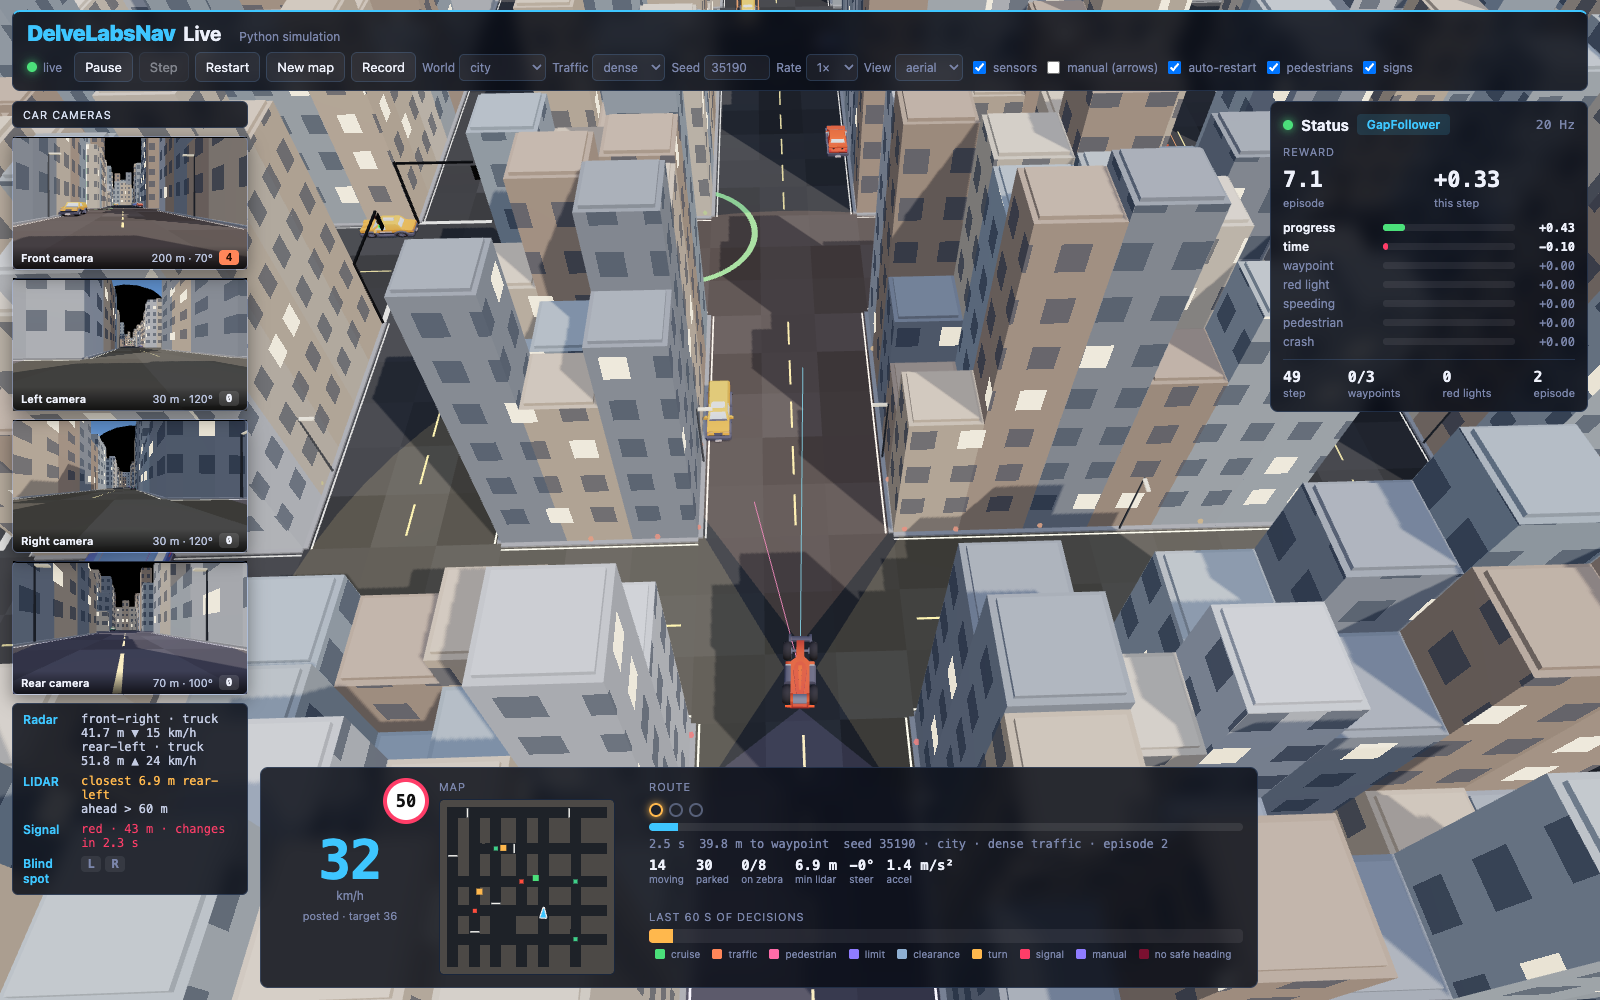
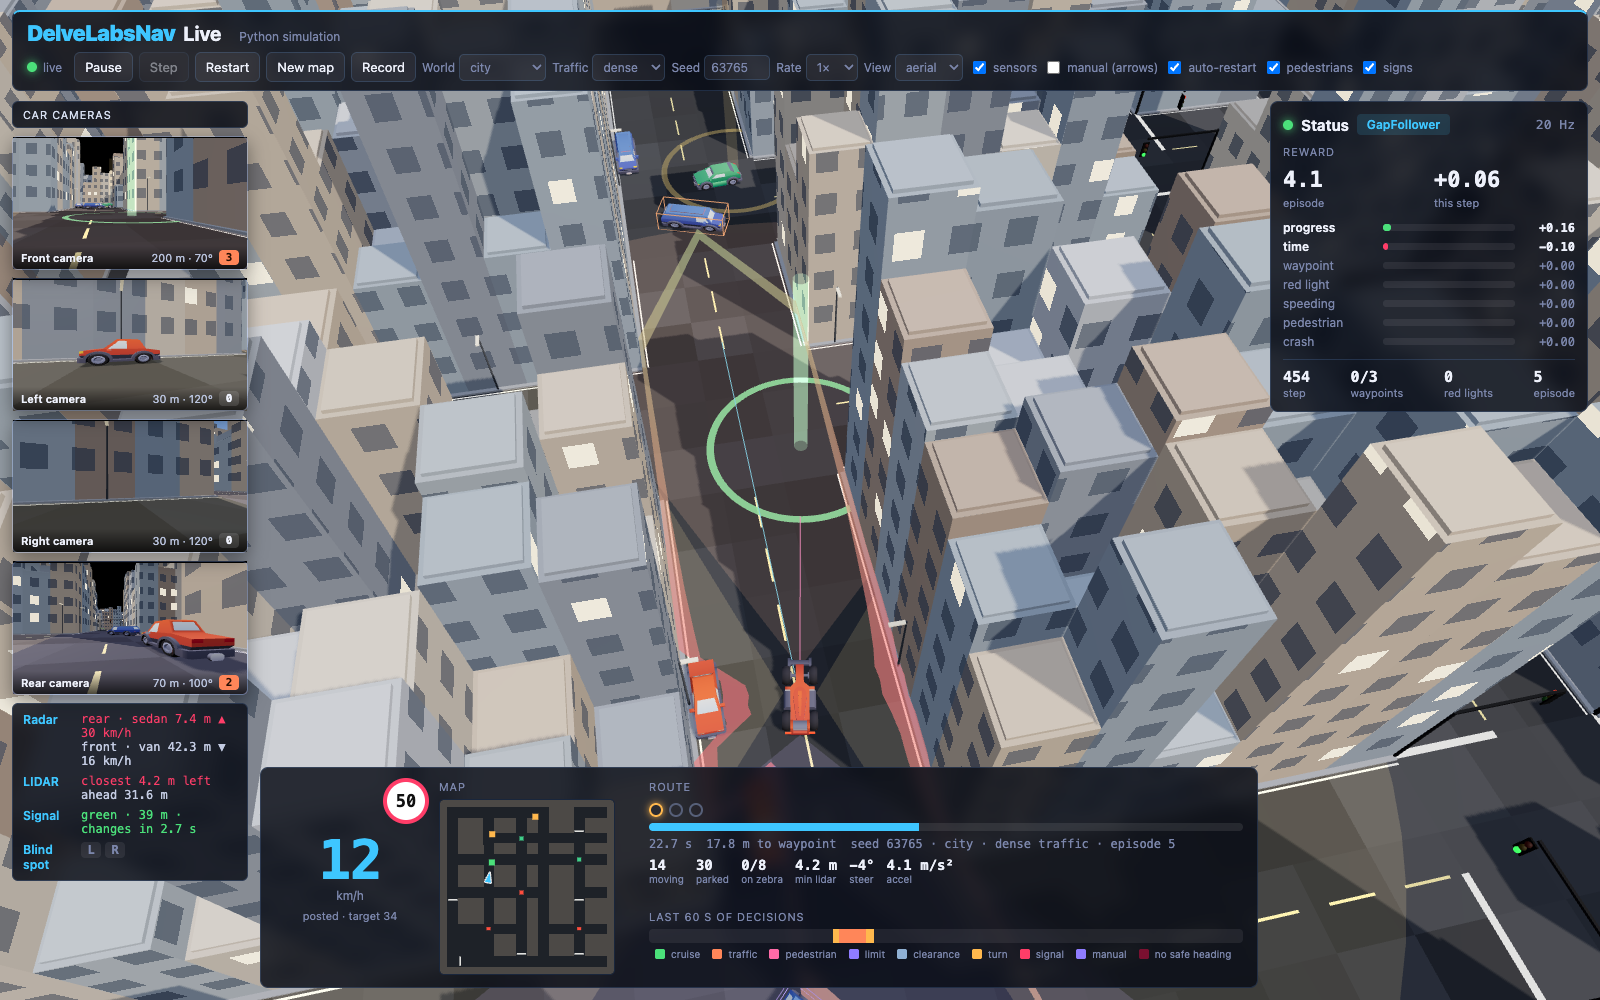
Replace LIDAR proximity dots with a pulsing sonar-style wave
A ring of static dots read as fine, but not as "natural" as the sensor
visualizations in real self-driving demos, which is what was asked for
instead: a wave that breathes outward from the car and back.

The wave is a single ring-band mesh, rebuilt only when the beam count
changes, with its vertex positions and colours rewritten every frame from
two things: a triangle-wave radius (0 -> lidar_range -> 0 over one period --
"outwards and back", not a sweep that snaps to the start) and the actual
per-beam LIDAR distance, which clips the wave's radius in that direction. So
it isn't pure decoration: the band visibly hugs and stops at whatever LIDAR
actually reports nearby, same near/far colour coding as before, and only
grows freely in directions that are clear. Opacity breathes with the same
phase for a bit of a pulse/glow feel on top of the radius animation.

Verified visually via a fresh page load: the band's radius visibly grows
between two screenshots taken a couple seconds apart, and it clips tightly
around nearby vehicles rather than passing through them. docs/viewer-*.png
and the README/INTEGRATION.md prose updated to match.

diff --git a/README.md b/README.md
@@ -9,12 +9,12 @@ world-model experiments are not forced to choose.
 
 *The live browser viewer (`python main.py serve --pedestrians --signs`) approaching a
 red light in traffic: oriented detection boxes on the vehicles the front/left/right/
-rear cameras can see, and LIDAR range shown as a ring of proximity dots around the
-car rather than a fan of rays back to it (see [Live browser
-viewer](#live-browser-viewer) for why). Every panel reads real server-computed
-state — nothing here is a client-side approximation of what the car senses.
-Screenshotted headlessly with `tools/viewer_shot.py`; the task/agent-view figures
-further down are regenerated by
+rear cameras can see, and LIDAR range shown as a pulsing wave band breathing out
+from the car and back, clipped per direction to the actual measured distance
+(see [Live browser viewer](#live-browser-viewer) for why). Every panel reads
+real server-computed state — nothing here is a client-side approximation of
+what the car senses. Screenshotted headlessly with `tools/viewer_shot.py`; the
+task/agent-view figures further down are regenerated by
 `python tools/figures.py`.*
 
 ```
@@ -252,8 +252,8 @@ rendering on its own GPU. Needs `pip install websockets` (the `viewer` extra).
 
 The page shows a chase / aerial / driver camera, front / left / right / rear
 camera feeds with real occlusion-aware detection boxes (`env.perception`, not a
-client-side approximation), LIDAR range as a ring of proximity dots around the
-car and a per-sector radar readout, blind-spot chips, the reward and its
+client-side approximation), LIDAR range as a pulsing wave band around the car
+and a per-sector radar readout, blind-spot chips, the reward and its
 components, a minimap and a 60 s history of which speed
 cap most recently bound the scripted driver. World picks a terrain preset --
 `city` (dense blocks), `suburbs` (houses with gardens), `rural` (open fields,
@@ -290,8 +290,8 @@ in world-frame metres. The viewer draws each one as a trail of small dots
 ahead of the car, shrinking and fading toward the end of the horizon --
 dots rather than a line so it stays legible viewed from any angle (a thin
 line nearly end-on, the common case for a mostly-forward path, foreshortens
-toward invisibility) and reads as visually distinct from the LIDAR dots
-around the car -- and shows an `imagining ×N · H steps` chip next to the
+toward invisibility) and reads as visually distinct from the pulsing LIDAR
+wave around the car -- and shows an `imagining ×N · H steps` chip next to the
 driver's name. Both only appear for an agent that actually provides this;
 every other agent's `sensors` overlay is unaffected. Nothing here is RL- or
 Dreamer-specific: any agent that can produce a sequence of predicted `(x, y)`

diff --git a/INTEGRATION.md b/INTEGRATION.md
@@ -798,8 +798,8 @@ Point `main.py serve` at it (`--agent configs/dreamer.json`, the same JSON-
 config mechanism every custom agent uses) and the rollouts show up
 immediately: a trail of small violet dots ahead of the car, shrinking and
 fading toward the end of the horizon (dots rather than a line so it stays
-legible viewed nearly end-on, and reads as distinct from the LIDAR dots
-around the car), plus an `imagining ×N · H steps` chip next to the agent's
+legible viewed nearly end-on, and reads as distinct from the pulsing LIDAR
+wave around the car), plus an `imagining ×N · H steps` chip next to the agent's
 name in the driver panel — both gated behind the existing `sensors` overlay
 toggle, so turning overlays off hides them along with LIDAR and detection
 boxes. No server-side code has to change for a new
